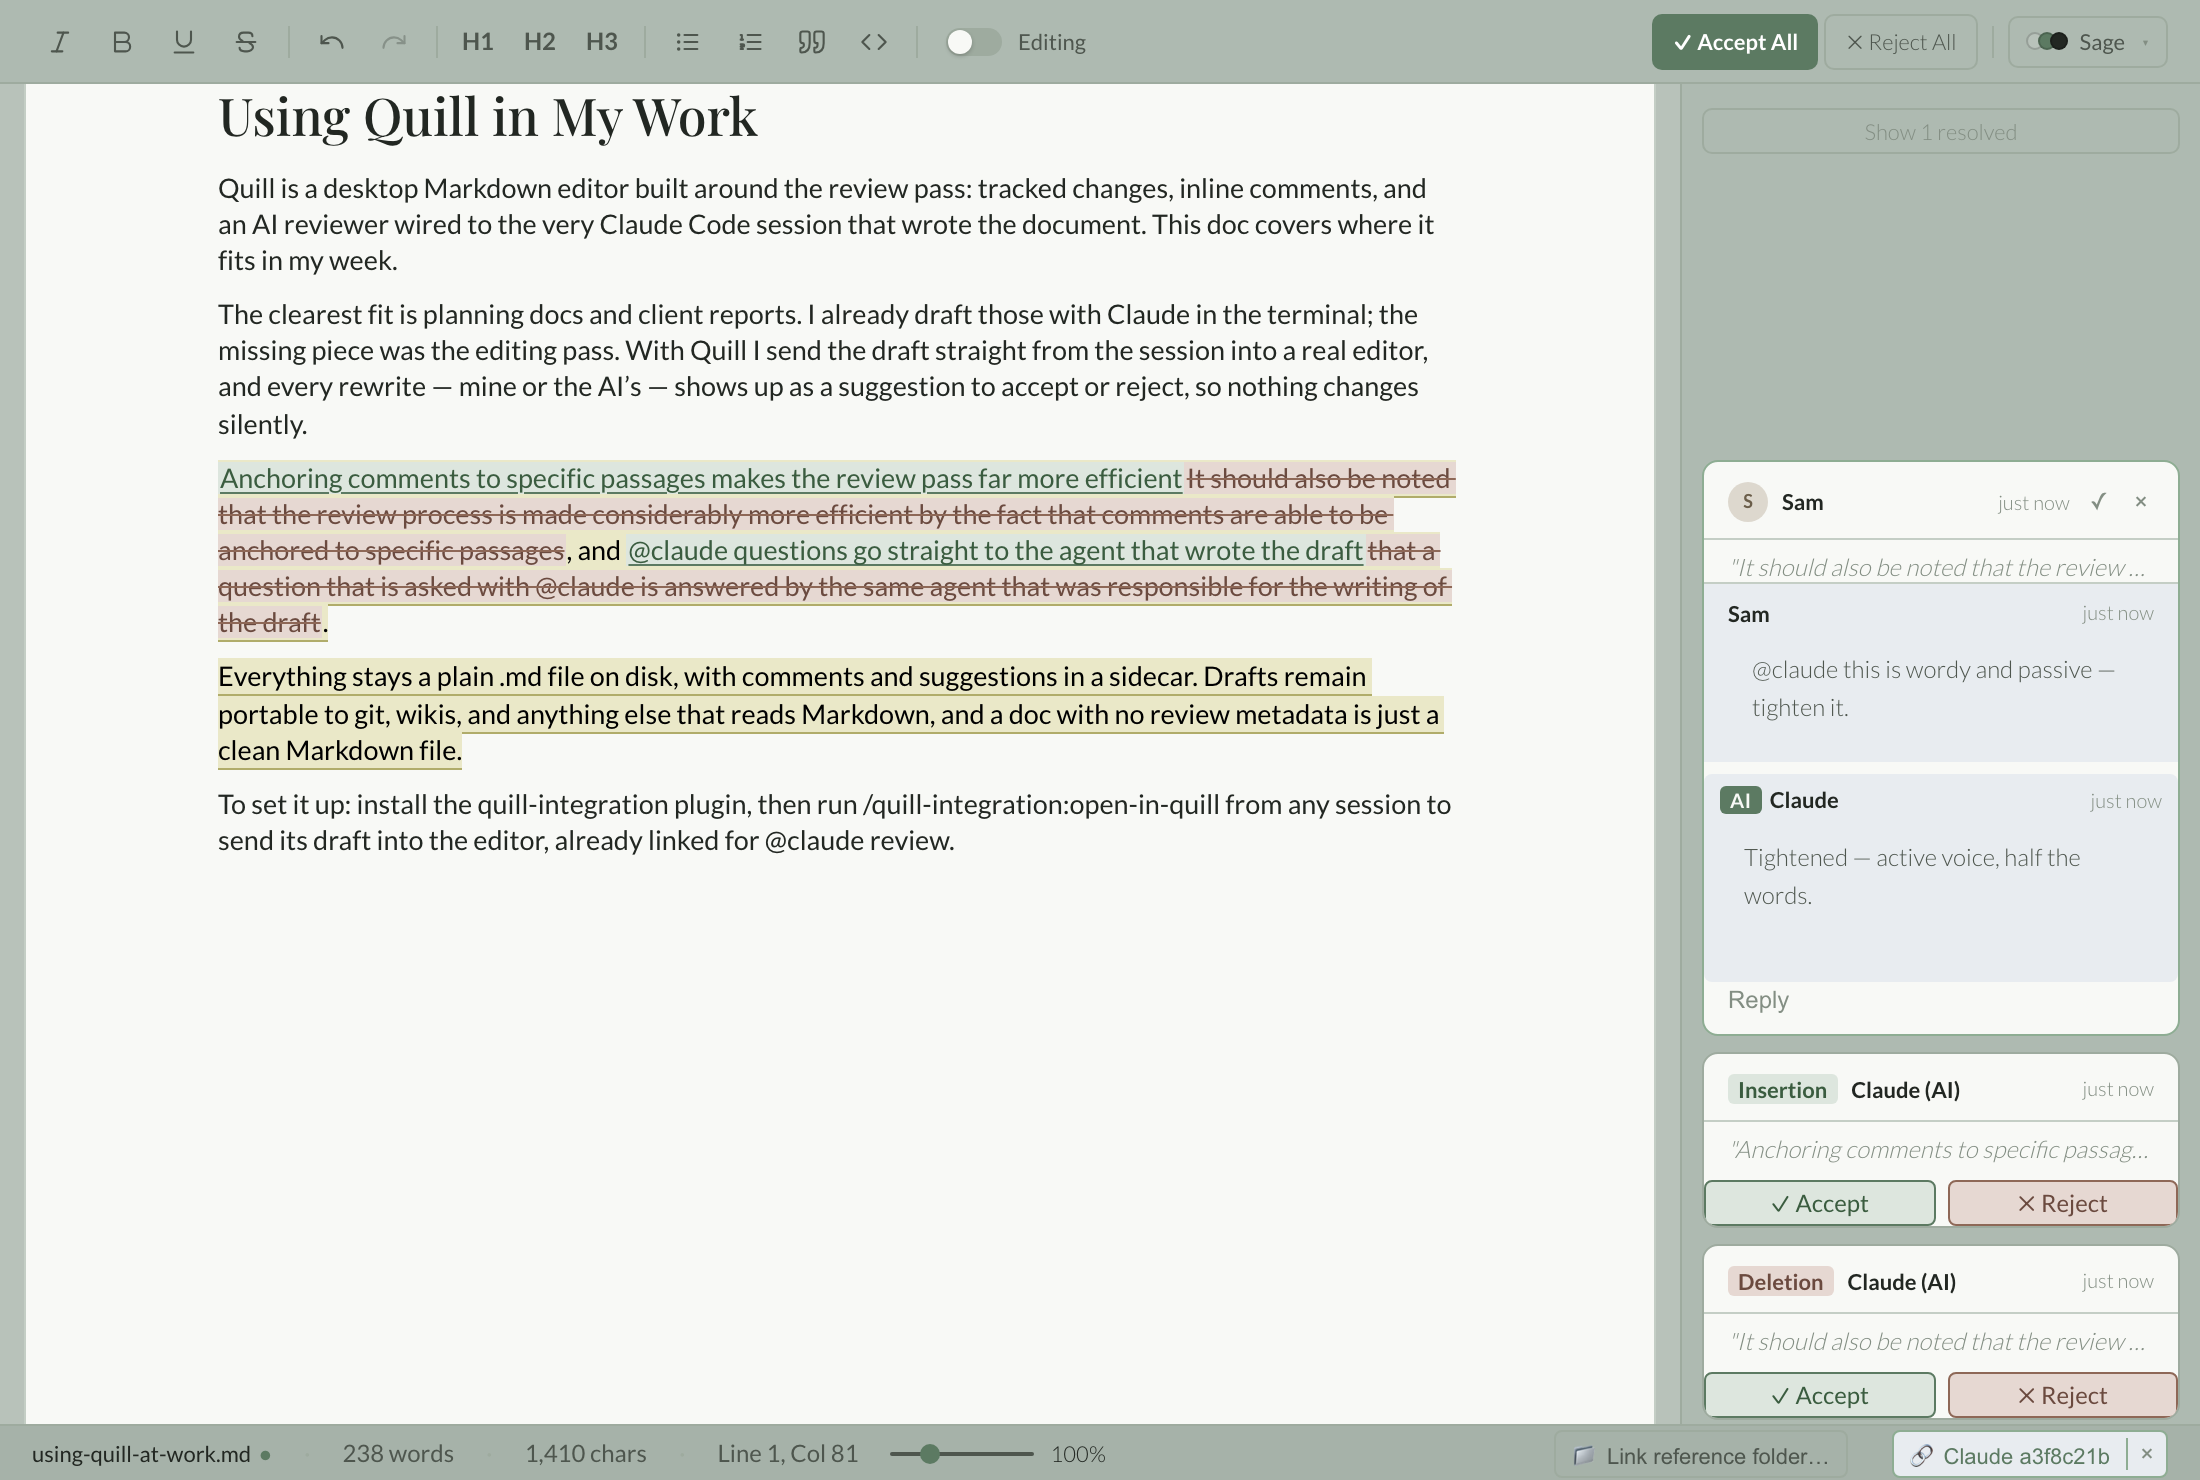
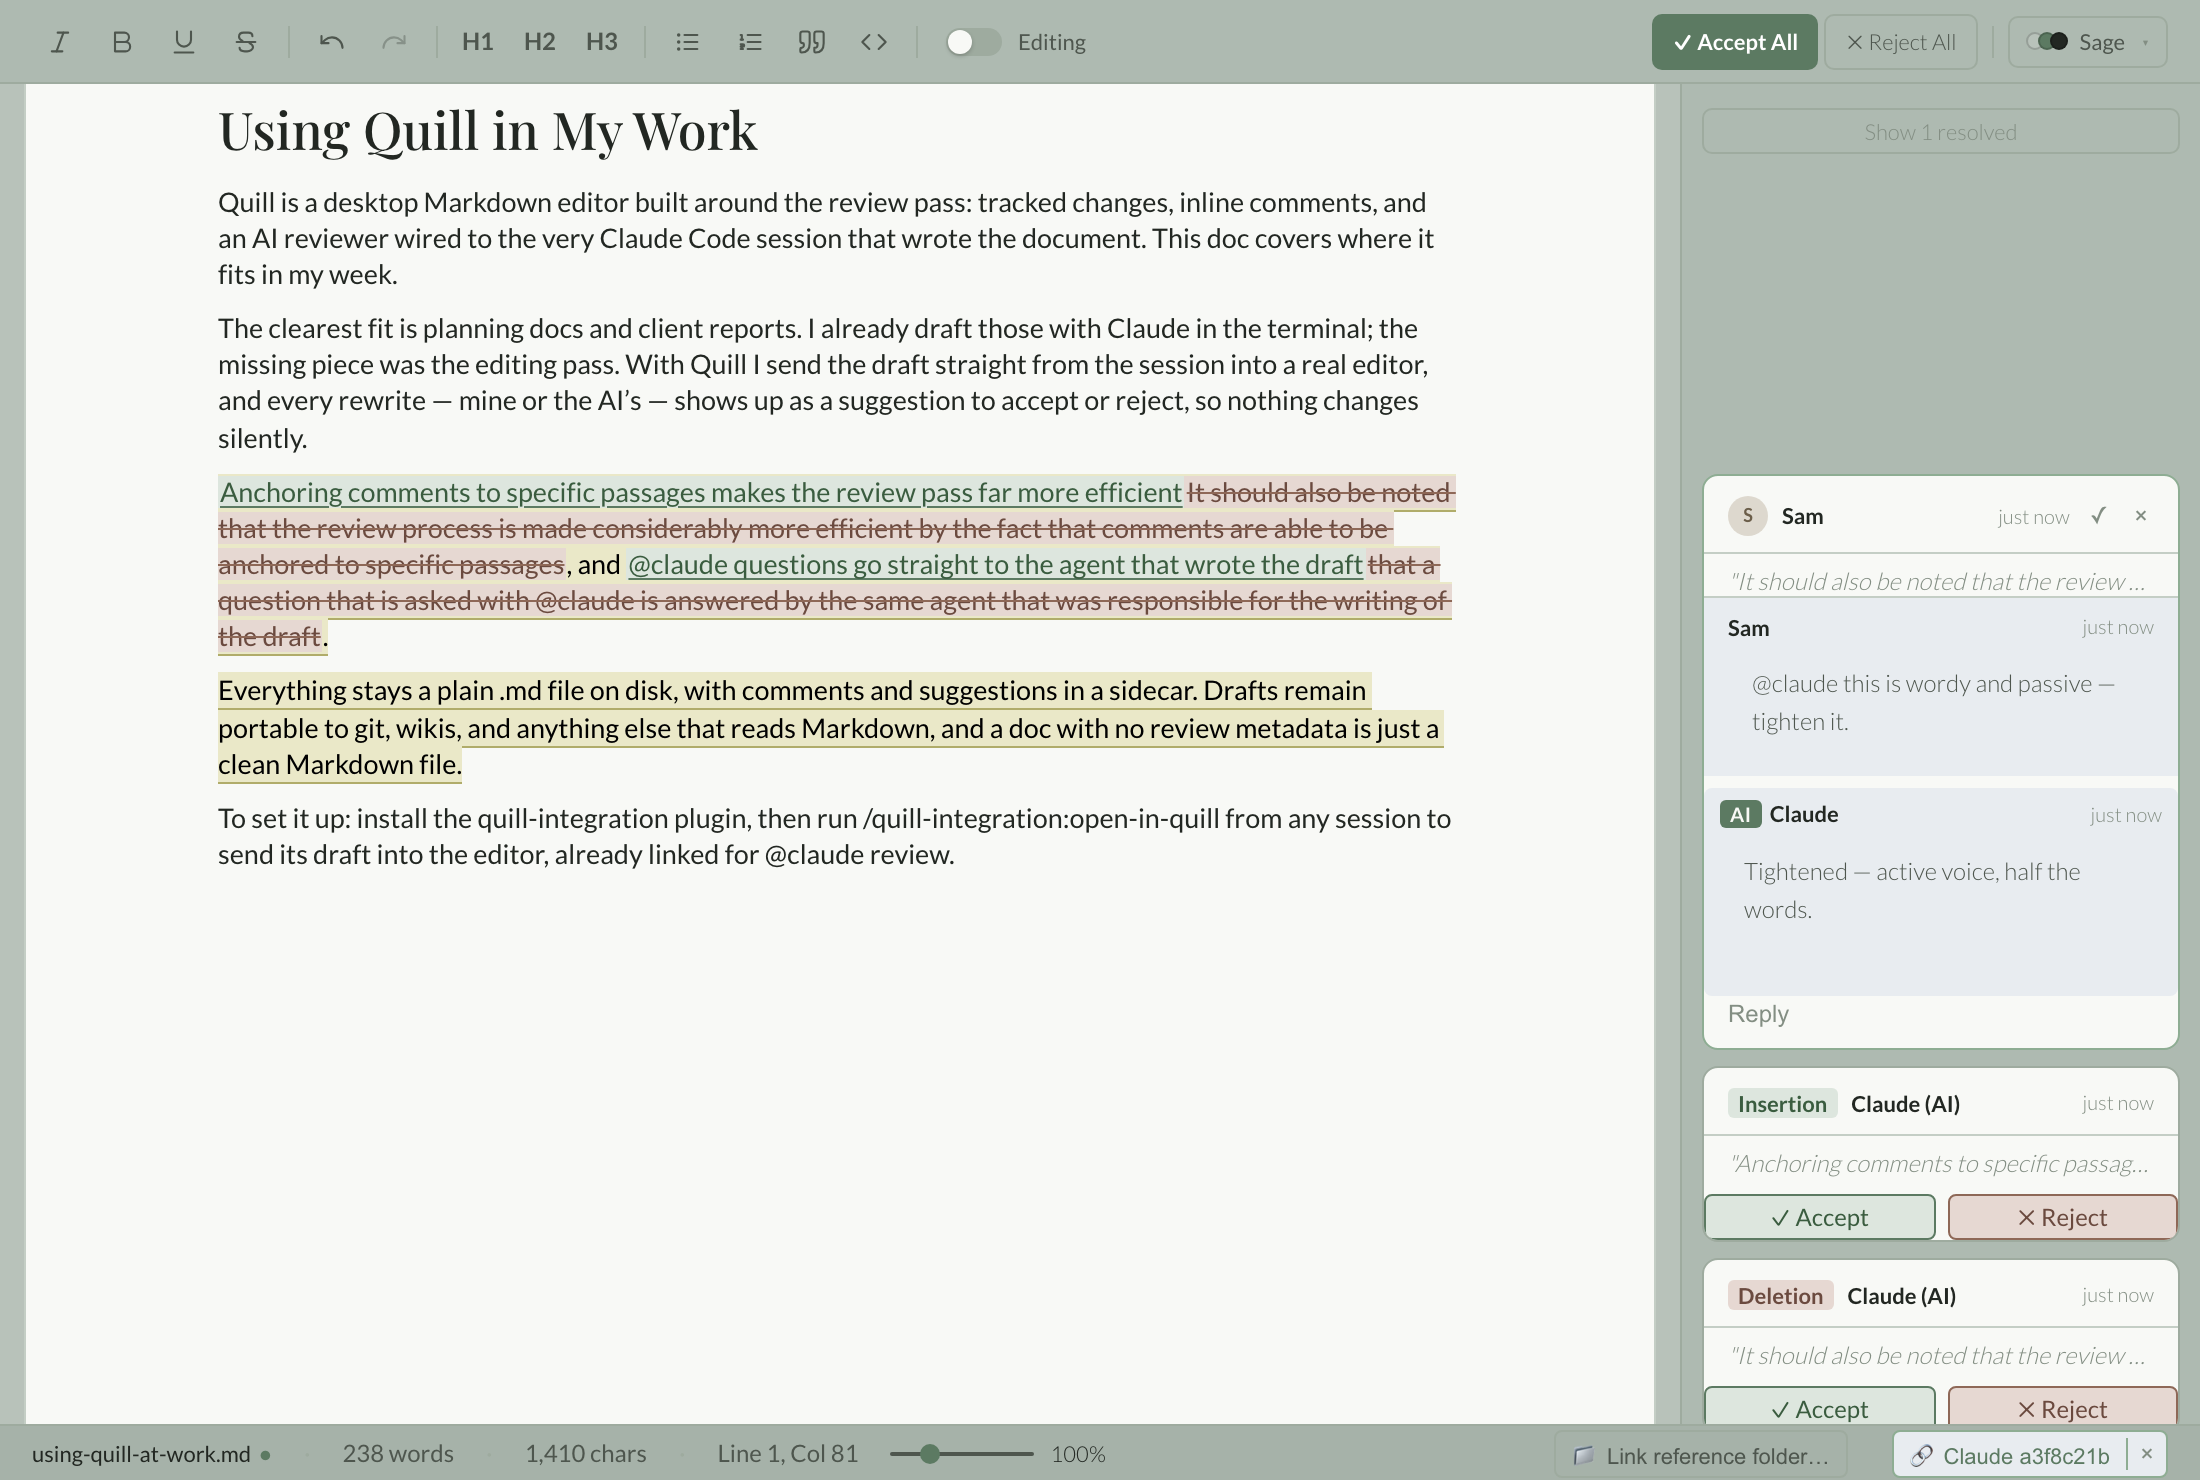
docs: animate the hero GIF as a pseudo screen recording
Replace the 8-slide hero with an ~82-micro-frame capture (typing,
streaming replies, tracked changes landing frame by frame) so the GIF
reads like a screen recording instead of a slideshow. stage-hero.mjs
now writes a frames.json manifest with per-frame delays; encode-hero.mjs
assembles it with gifenc and runs gifsicle -O3 --lossy=40 for
inter-frame optimization (3.6 MB raw -> 0.6 MB shipped). terminal.html
exposes reveal/setText/hide helpers so the terminal scene animates too.
Ignore the gitignored frames/ output in prettier.

diff --git a/docs/assets/source/terminal.html b/docs/assets/source/terminal.html
@@ -94,9 +94,6 @@
       .out .bullet {
         color: #98c379;
       }
-      .step2 {
-        display: none;
-      }
       .caret {
         display: inline-block;
         width: 9px;
@@ -121,25 +118,26 @@
           <span class="dim">— new session in ~/work</span>
         </div>
         <div>
-          <span class="prompt">&gt;</span>
-          <span class="cmd">Research Quill and write a doc about how I can use it in my work</span>
+          <span class="prompt">&gt;</span> <span class="cmd" id="ask"></span
+          ><span class="caret" id="c1"></span>
         </div>
-        <div class="out">
+        <div class="out" id="out1a" style="display: none">
           <div>
             <span class="bullet">⏺</span> Researching
             <span class="dim">— README, user guide, plugin docs…</span>
           </div>
+        </div>
+        <div id="out1b" style="display: none">
           <div>
             <span class="bullet">⏺</span> Write(<span class="cmd">using-quill-at-work.md</span>)
             <span class="dim">+84 lines — report drafted</span>
           </div>
         </div>
-        <div class="step2" style="margin-top: 14px">
-          <span class="prompt">&gt;</span>
-          <span class="slash">/quill-integration:open-in-quill</span>
-          <span class="cmd">using-quill-at-work.md</span><span class="caret"></span>
+        <div id="slashline" style="display: none; margin-top: 14px">
+          <span class="prompt">&gt;</span> <span class="slash" id="slashcmd"></span
+          ><span class="caret" id="c2"></span>
         </div>
-        <div class="out step2">
+        <div class="out" id="out2" style="display: none">
           <div>
             <span class="bullet">⏺</span> Opening <span class="cmd">using-quill-at-work.md</span>
             in Quill…
@@ -150,10 +148,12 @@
         </div>
       </div>
     </div>
+    <!-- The page starts with the dynamic lines hidden/empty; stage-hero.mjs
+         reveals and fills them frame by frame to animate the scene. -->
     <script>
-      if (new URLSearchParams(location.search).get('step') === '2') {
-        document.querySelectorAll('.step2').forEach((el) => (el.style.display = 'block'));
-      }
+      window.reveal = (sel) => (document.querySelector(sel).style.display = 'block');
+      window.setText = (sel, text) => (document.querySelector(sel).textContent = text);
+      window.hide = (sel) => (document.querySelector(sel).style.display = 'none');
     </script>
   </body>
 </html>